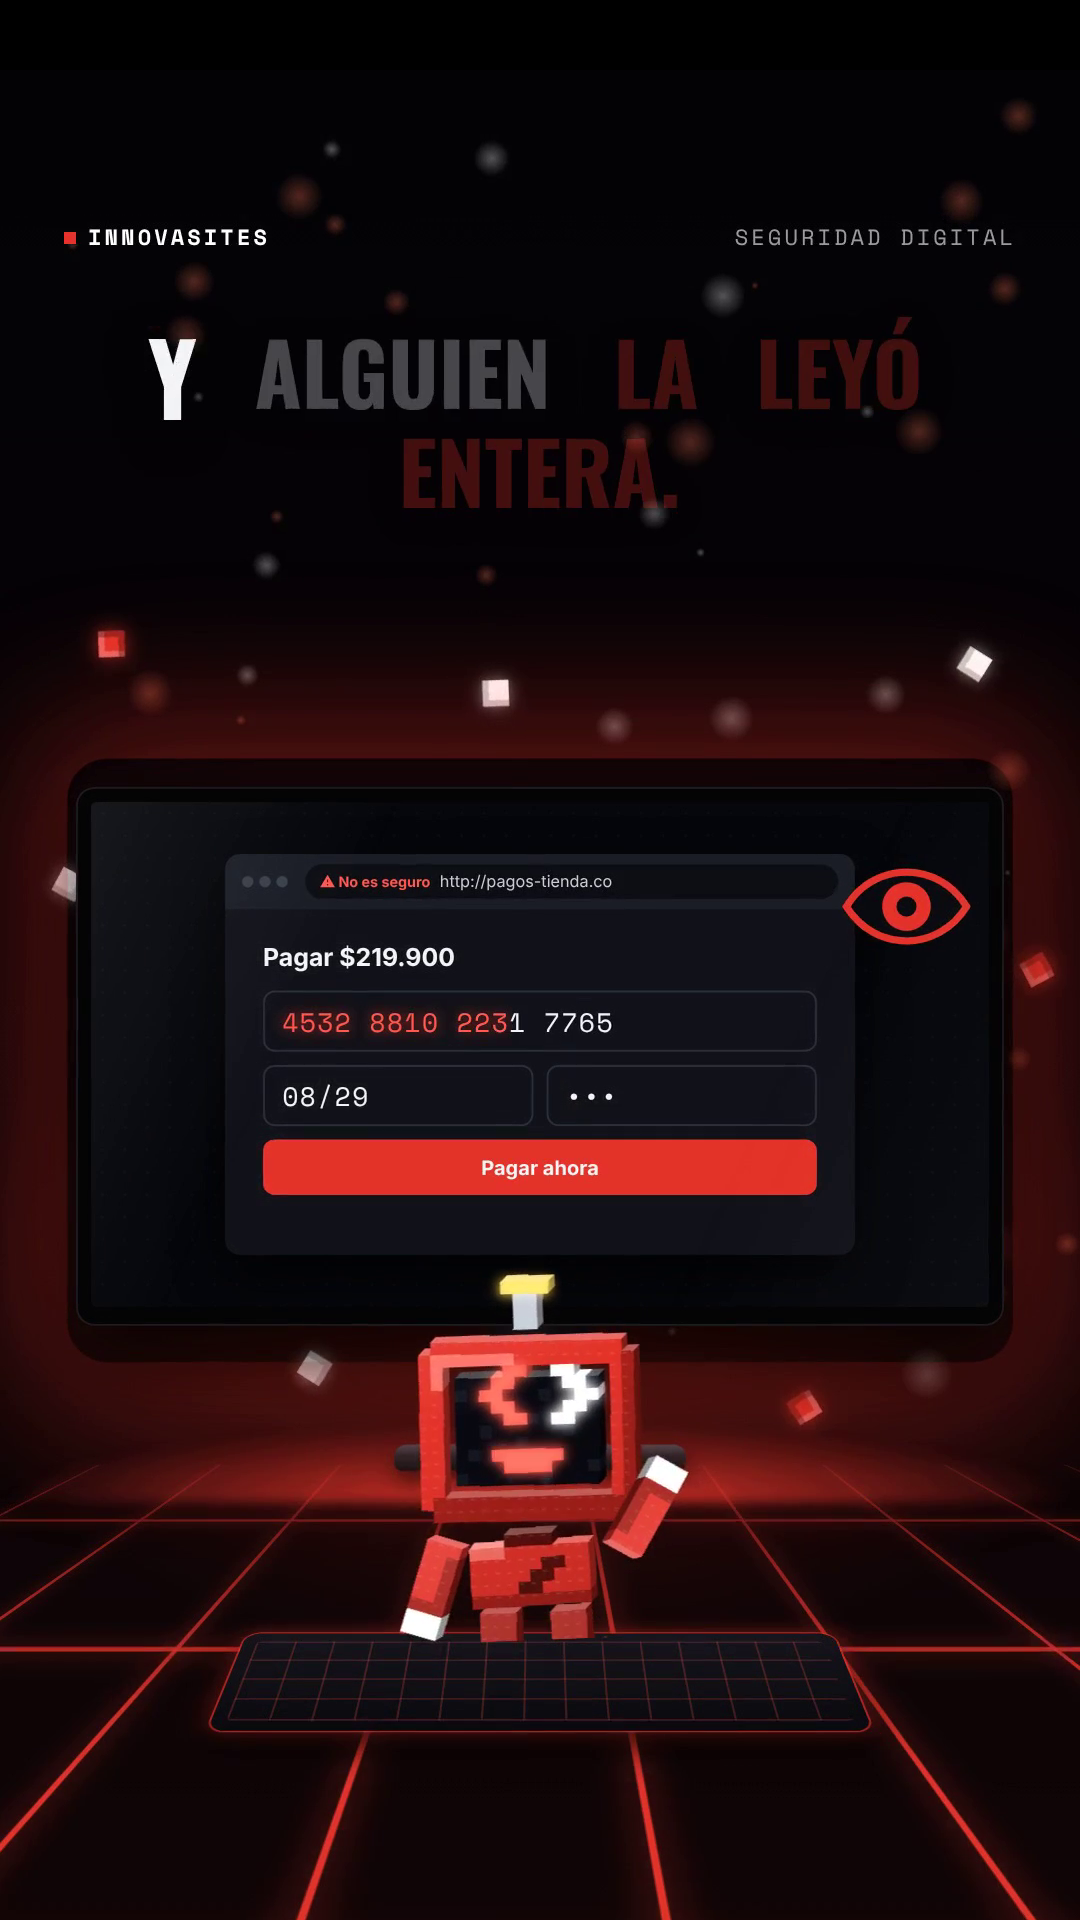
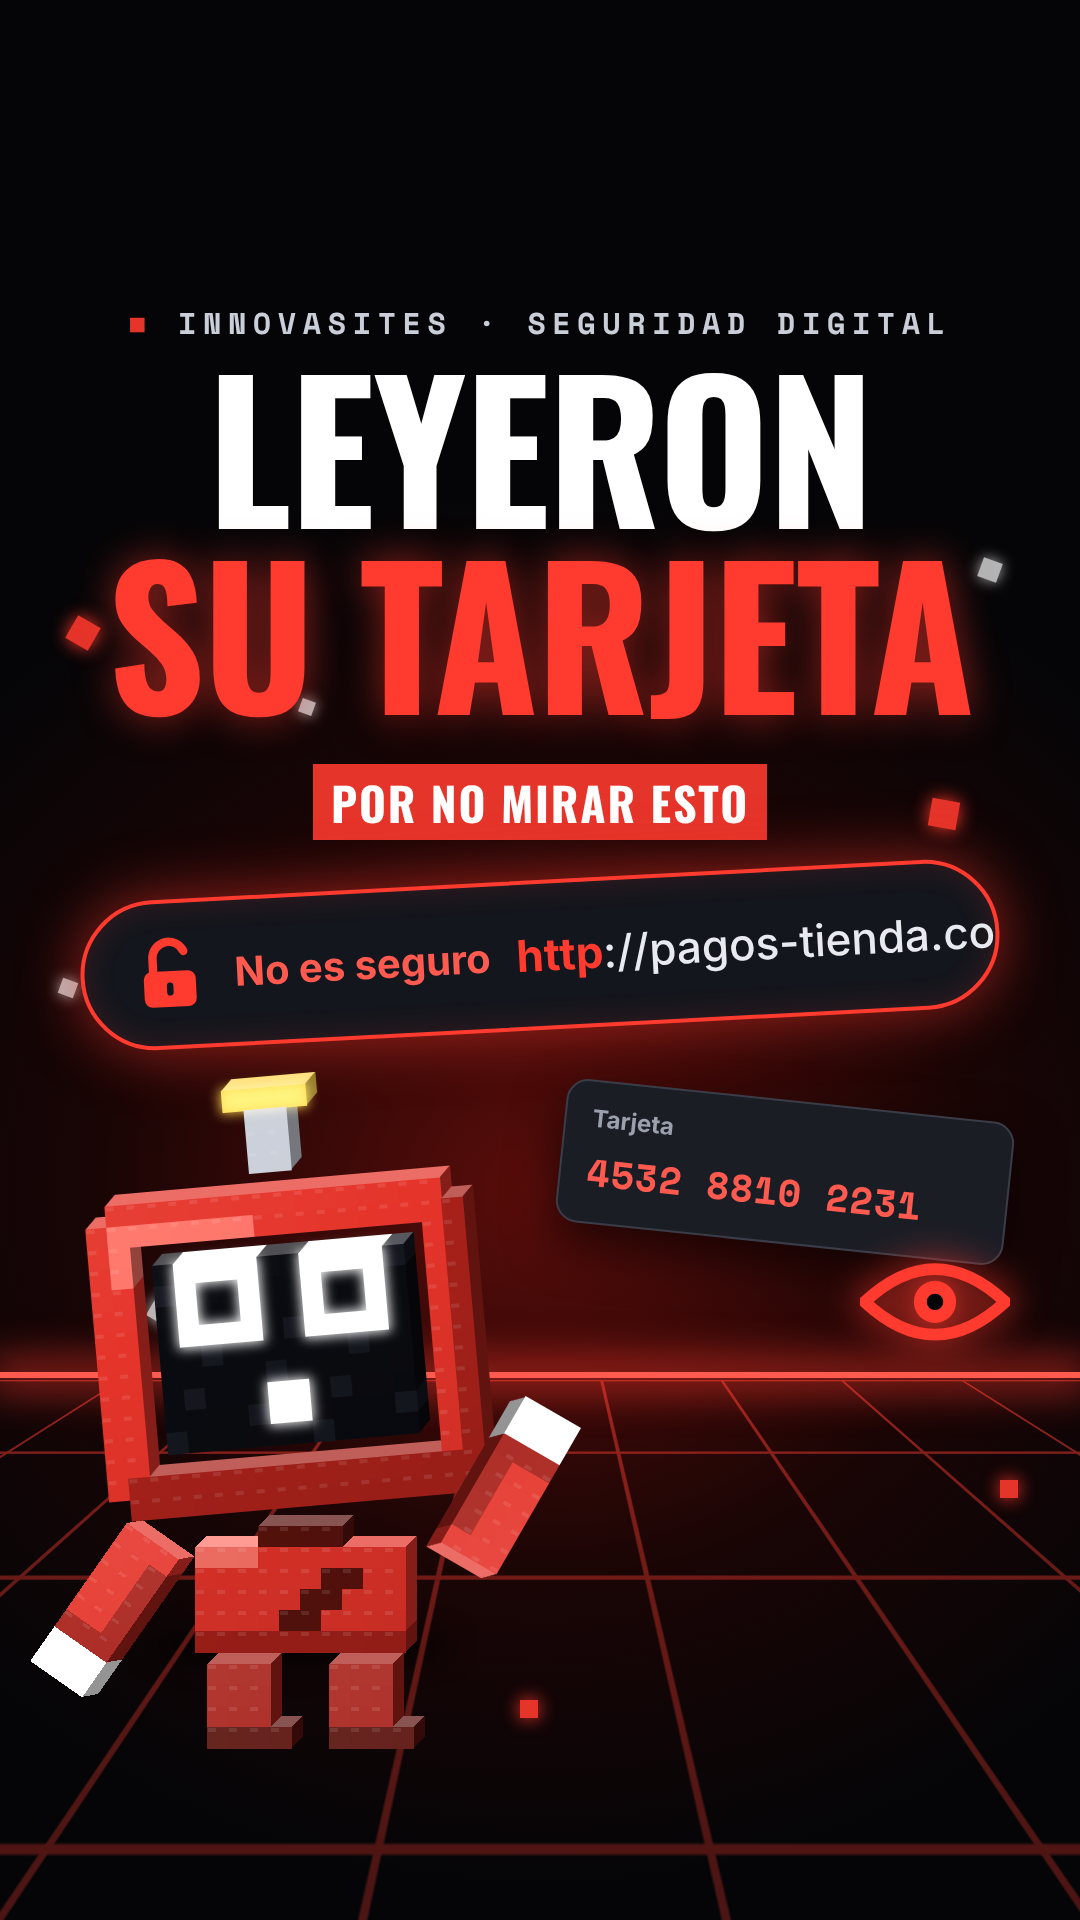
Reel 15: portada nueva diseñada con Pixel
Claude-Session: https://claude.ai/code/session_0146SzCzHnp8h9f7uQc1exzh

diff --git a/fuente/15-web-sin-candado/portada/portada.html b/fuente/15-web-sin-candado/portada/portada.html
@@ -1,0 +1,50 @@
+<!doctype html><html><head><meta charset="utf-8"><style>
+@font-face{font-family:'Oswald';font-weight:700;src:url('../../../marca/pixel/fonts/oswald-latin-700-normal.woff2')}
+@font-face{font-family:'Space Mono';font-weight:700;src:url('../../../marca/pixel/fonts/space-mono-latin-700-normal.woff2')}
+@font-face{font-family:'Inter';font-weight:700;src:url('../../../marca/pixel/fonts/inter-latin-700-normal.woff2')}
+@font-face{font-family:'Inter';font-weight:500;src:url('../../../marca/pixel/fonts/inter-latin-500-normal.woff2')}
+*{box-sizing:border-box}
+body{margin:0;width:1080px;height:1920px;overflow:hidden;position:relative;font-family:Inter;color:#fff;
+ background:radial-gradient(ellipse 90% 45% at 50% 62%,#5a0d0a 0%,#1a0505 45%,#050507 80%)}
+#grid{position:absolute;left:-600px;right:-600px;top:1380px;height:900px;transform:perspective(500px) rotateX(62deg);transform-origin:50% 0;
+ background-image:linear-gradient(#ff3b2f 3px,transparent 3px),linear-gradient(90deg,#ff3b2f 3px,transparent 3px);background-size:120px 120px;opacity:.55;
+ -webkit-mask:linear-gradient(#000,transparent 85%)}
+#hz{position:absolute;left:0;right:0;top:1372px;height:6px;background:#ff5a4f;box-shadow:0 0 40px 12px rgba(255,59,47,.6)}
+.cube{position:absolute;background:#E5342A;box-shadow:0 0 18px #ff3b2f}
+.cube.w{background:#fff;box-shadow:0 0 14px #fff;opacity:.7}
+#tag{position:absolute;top:300px;left:0;right:0;text-align:center;font:700 30px 'Space Mono';letter-spacing:.22em;color:#c9ced8}
+#tag b{color:#E5342A}
+h1{position:absolute;top:350px;left:0;right:0;margin:0;text-align:center;font:700 190px/0.98 Oswald;text-transform:uppercase;letter-spacing:-.01em}
+h1 .r{color:#ff3b2f;text-shadow:0 0 40px rgba(255,59,47,.55)}
+#sub{position:absolute;top:768px;left:0;right:0;text-align:center;font:700 46px Oswald;text-transform:uppercase;color:#fff;letter-spacing:.04em}
+#sub span{background:#E5342A;padding:4px 18px}
+#bar{position:absolute;top:880px;left:80px;width:920px;height:150px;border-radius:75px;background:#14161d;border:4px solid #ff3b2f;
+ box-shadow:0 0 60px rgba(255,59,47,.55),inset 0 0 30px rgba(255,59,47,.15);display:flex;align-items:center;padding:0 46px;gap:26px;transform:rotate(-3deg)}
+#bar .lk{width:78px;height:78px;flex:none}
+#bar .ns{font:700 40px Inter;color:#ff5a4f;white-space:nowrap}
+#bar .url{font:500 44px Inter;color:#e8eaf0;white-space:nowrap}
+#bar .url b{color:#ff3b2f;font-weight:700}
+#card{position:absolute;top:1100px;left:560px;width:450px;padding:22px 26px;border-radius:22px;background:#1b1d25;border:2px solid #3a3d48;transform:rotate(6deg);
+ box-shadow:0 20px 50px rgba(0,0,0,.6)}
+#card p{margin:0 0 10px;font:700 24px Inter;color:#9aa0ad}
+#card .n{font:700 38px 'Space Mono';color:#ff5a4f;letter-spacing:.02em}
+#eye{position:absolute;top:1255px;left:860px;width:150px;filter:drop-shadow(0 0 18px #ff3b2f)}
+#f{position:absolute;left:90px;top:1085px}
+#sh{position:absolute;left:150px;top:1625px;width:300px;height:40px;border-radius:50%;background:rgba(0,0,0,.7);filter:blur(14px)}
+</style><script src="../../../marca/pixel/pixel.js"></script><script src="../../../marca/pixel/pixel-figura.js"></script></head><body>
+<div id="grid"></div><div id="hz"></div>
+<div id="tag"><b>■</b> INNOVASITES · SEGURIDAD DIGITAL</div>
+<h1>Leyeron<br><span class="r">su tarjeta</span></h1>
+<div id="sub"><span>por no mirar esto</span></div>
+<div id="bar">
+ <svg class="lk" viewBox="0 0 24 24"><path d="M7 11V7a5 5 0 0 1 9.6-2" fill="none" stroke="#ff3b2f" stroke-width="2.6" stroke-linecap="round"/><rect x="4" y="11" width="16" height="11" rx="2.5" fill="#ff3b2f"/><rect x="11" y="14.5" width="2" height="4" rx="1" fill="#14161d"/></svg>
+ <div class="ns">No es seguro</div><div class="url"><b>http</b>://pagos-tienda.co</div>
+</div>
+<div id="card"><p>Tarjeta</p><div class="n">4532 8810 2231</div></div>
+<svg id="eye" viewBox="0 0 64 40"><path d="M2 20 Q32 -8 62 20 Q32 48 2 20Z" fill="none" stroke="#ff3b2f" stroke-width="5"/><circle cx="32" cy="20" r="9" fill="#ff3b2f"/><circle cx="32" cy="20" r="3.5" fill="#050507"/></svg>
+<div id="sh"></div><div id="f"></div>
+<script>
+const fig = pixelFigura(document.getElementById('f'), 21); fig.cara({ eyes: 'wide', mouth: 'o' }); fig.pose({ brazoD: -150, brazoI: 35, cabeza: -5 });
+[[70,620,26,0],[980,560,20,1],[150,1300,22,1],[930,800,28,0],[520,1700,18,0],[60,980,16,1],[1000,1480,18,0],[300,700,14,1]].forEach(([x,y,s,w])=>{
+ const d=document.createElement('div');d.className='cube'+(w?' w':'');Object.assign(d.style,{left:x+'px',top:y+'px',width:s+'px',height:s+'px',transform:`rotate(${x%40}deg)`});document.body.prepend(d)});
+</script></body></html>
